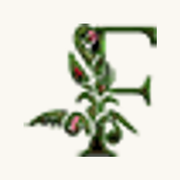
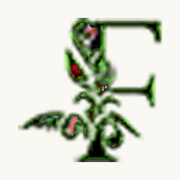
Give Blue Ocean a page, and make the wall renames actually apply
Blue Ocean already had a photograph, description, event uses and a
booking link, but was not flagged for a detail page, so it only ever
appeared as a card in the grid. It has one now — thirteen walls with
pages.

wall-renames.ts has existed since launch and was imported nowhere, so
the rename it documents never took effect: the site still said "Atlanta",
the name carried over from the brand this catalogue came from. displayName
is now applied wherever a wall name renders — cards, detail pages,
breadcrumbs, metadata, image alt text and the Product and ItemList
schema. "Atlanta" reads as "Crimson Rose" and the shouted "BLUE OCEAN"
as "Blue Ocean". Slugs and booking links are untouched, so no URL moves
and every link still resolves by package id.

The favicon and Apple touch icon are rebuilt from the mark the client
supplied, replacing the one cropped out of the wordmark.

Changed region(s): [[0.0833, 0.0833, 0.9167, 0.9167]]

diff --git a/src/app/flower-walls/[wall]/page.tsx b/src/app/flower-walls/[wall]/page.tsx
@@ -2,6 +2,7 @@ import type { Metadata } from "next";
 import Link from "next/link";
 import { notFound } from "next/navigation";
 import walls from "@/data/walls.json";
+import { displayName } from "@/data/wall-renames";
 import { type Wall } from "@/components/WallCard";
 import { pageMeta } from "@/lib/metadata";
 import { JsonLd, breadcrumbJsonLd } from "@/lib/jsonld";
@@ -27,11 +28,11 @@ export async function generateMetadata({ params }: Props): Promise<Metadata> {
   const w = bySlug(wall);
   if (!w) return {};
   return pageMeta({
-    title: `${w.name} Flower Wall Rental | New Jersey`,
+    title: `${displayName(w.name)} Flower Wall Rental | New Jersey`,
     description: `${w.description?.slice(0, 150) ?? ""}`.trim(),
     path: `/flower-walls/${w.slug}/`,
     image: w.image,
-    imageAlt: `${w.name} flower wall rental in New Jersey`,
+    imageAlt: `${displayName(w.name)} flower wall rental in New Jersey`,
   });
 }
 
@@ -50,12 +51,12 @@ export default async function WallDetail({ params }: Props) {
           breadcrumbJsonLd([
             { name: "Home", path: "/" },
             { name: "Flower Walls", path: "/flower-walls/" },
-            { name: w.name, path: `/flower-walls/${w.slug}/` },
+            { name: displayName(w.name), path: `/flower-walls/${w.slug}/` },
           ]),
           {
             "@context": "https://schema.org",
             "@type": "Product",
-            name: `${w.name} flower wall`,
+            name: `${displayName(w.name)} flower wall`,
             image: w.image,
             description: w.description,
             url: `${SITE.url}/flower-walls/${w.slug}/`,
@@ -73,7 +74,7 @@ export default async function WallDetail({ params }: Props) {
             src={img.src}
             srcSet={img.srcset}
             sizes="(min-width: 768px) 50vw, 100vw"
-            alt={`${w.name} flower wall rental in New Jersey`}
+            alt={`${displayName(w.name)} flower wall rental in New Jersey`}
             width={800}
             height={800}
             className="w-full h-auto object-cover"
@@ -85,10 +86,10 @@ export default async function WallDetail({ params }: Props) {
             <Link href="/flower-walls/" className="hover:text-heritage">
               Flower Walls
             </Link>{" "}
-            / {w.name}
+            / {displayName(w.name)}
           </nav>
           <h1 className="mt-2 font-[family-name:var(--font-display)] text-4xl">
-            {w.name} flower wall
+            {displayName(w.name)} flower wall
           </h1>
           <p className="mt-5 text-ink/80 leading-relaxed">{w.description}</p>
 
@@ -144,7 +145,7 @@ export default async function WallDetail({ params }: Props) {
                 href={`/flower-walls/${o.slug}/`}
                 className="text-heritage hover:underline underline-offset-4"
               >
-                {o.name}
+                {displayName(o.name)}
               </Link>
             </li>
           ))}

diff --git a/src/components/WallCard.tsx b/src/components/WallCard.tsx
@@ -1,5 +1,6 @@
 import Link from "next/link";
 import { wallImage } from "@/lib/wallImage";
+import { displayName } from "@/data/wall-renames";
 
 export interface Wall {
   slug: string;
@@ -27,6 +28,7 @@ export interface Wall {
  */
 export function WallCard({ wall }: { wall: Wall }) {
   const img = wallImage(wall.slug, wall.image);
+  const name = displayName(wall.name);
   const href = wall.hasDetailPage
     ? `/flower-walls/${wall.slug}/`
     : wall.bookingUrl;
@@ -43,7 +45,7 @@ export function WallCard({ wall }: { wall: Wall }) {
           src={img.src}
           srcSet={img.srcset}
           sizes="(min-width: 1024px) 25vw, 50vw"
-          alt={`${wall.name} flower wall rental in New Jersey`}
+          alt={`${name} flower wall rental in New Jersey`}
           width={800}
           height={800}
           loading="lazy"
@@ -52,14 +54,14 @@ export function WallCard({ wall }: { wall: Wall }) {
         />
       </div>
       <h3 className="mt-3 font-[family-name:var(--font-display)] text-lg group-hover:text-heritage transition-colors">
-        {wall.name}
+        {name}
       </h3>
       {wall.description ? (
         <p className="mt-1 text-sm text-ink/70 line-clamp-2">{wall.description}</p>
       ) : null}
       <span className="mt-2 inline-block text-sm font-medium text-heritage underline-offset-4 group-hover:underline">
         {cta}
-        <span className="sr-only"> for the {wall.name} flower wall</span>
+        <span className="sr-only"> for the {name} flower wall</span>
       </span>
     </>
   );

diff --git a/src/lib/jsonld.tsx b/src/lib/jsonld.tsx
@@ -1,5 +1,6 @@
 import { SITE, SERVICE_AREAS, COVERAGE_HUBS } from "./site";
 import walls from "@/data/walls.json";
+import { displayName } from "@/data/wall-renames";
 
 type JsonLd = Record<string, unknown>;
 
@@ -77,7 +78,7 @@ export function catalogJsonLd(): JsonLd {
       position: i + 1,
       item: {
         "@type": "Product",
-        name: `${w.name} flower wall`,
+        name: `${displayName(w.name)} flower wall`,
         image: w.image,
         url: `${SITE.url}/flower-walls/#${w.slug}`,
       },

diff --git a/src/data/wall-renames.ts b/src/data/wall-renames.ts
@@ -12,6 +12,8 @@
 export const WALL_RENAMES: Record<string, string> = {
   // package 61452 — a deep red rose wall, carried over from the Atlanta brand
   Atlanta: "Crimson Rose",
+  // package 173193 — shouted in the catalogue, set in sentence case here
+  "BLUE OCEAN": "Blue Ocean",
 };
 
 export const displayName = (name: string) => WALL_RENAMES[name] ?? name;
